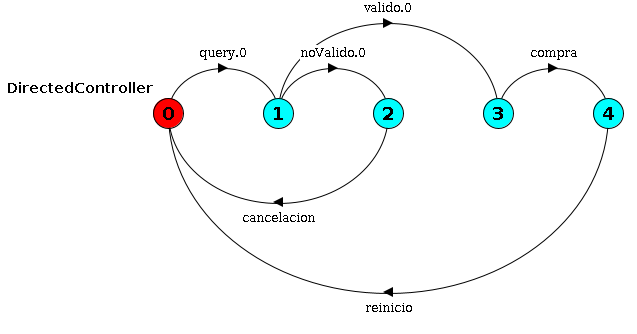
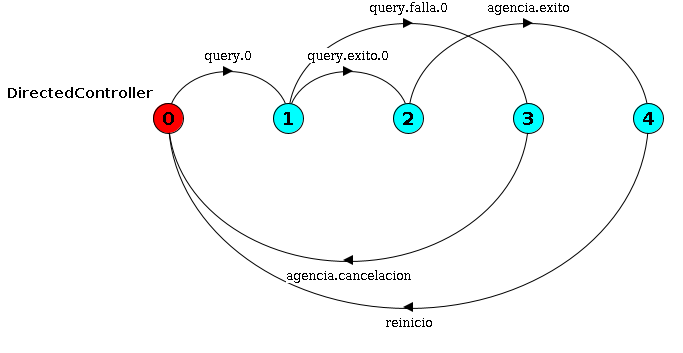
nuevo ejemplo y imagenes de agencia de viajes

diff --git a/introduccion.tex b/introduccion.tex
@@ -25,7 +25,7 @@ Tradicionalmente se toman estos autómatas componentes y se realiza la composici
 Es en este contexto que surge el enfoque de la exploración on-the-fly o ``en el mientras''. La idea es tratar de sacar conclusiones mientras se va calculando la composición para, de esta manera, evitar en lo posible construir todo el modelo. Para evidenciar la dificultad de la cual se está hablando presentaremos un caso de estudio, sus componentes y el sistema resultante de la composición.
 
 
-\section{Caso de estudio}\label{chpt:casoAviones}
+\section{Ejemplo}\label{chpt:casoAviones}
 A continuación se presenta un ejemplo para comprender el problema a resolver. Se trata de una versión simplificada del problema $Travel Agency$ utilizado en el capítulo \ref{chpt:performance} para medir la performance del algoritmo.
 
 Se desea armar una agencia de venta online de paquetes vacacionales que reservará de forma automática una variedad de servicios (alquiler de auto, hotel, pasaje de avión, etc.) asegurando que no se perderá nada de dinero a menos que se reserve el paquete completo. Es decir, no se quiere perder dinero por la reserva del hotel si no va a ser posible comprar un pasaje de avión.
@@ -39,27 +39,27 @@ Mostramos en la figura~\ref{fig:N1} un LTS (labeled transition system) para cada
 \begin{figure}[htb]
 	\begin{center}
 		\makebox[\linewidth][c]{%
-			\begin{subfigure}[t]{.5\textwidth}
+			\begin{subfigure}[t]{.6\textwidth}
 				\centering
-				\includegraphics[width=\linewidth]{figures/ejemploServicios/agencia.png}  
-				\caption{agencia}
+				\includegraphics[width=\linewidth]{figures/ejemploServicios/N1Agencia.png}  
+				\caption{la agencia}
 				\label{fig:agencia}
 			\end{subfigure}
-			\begin{subfigure}[t]{.5\textwidth}
+			\begin{subfigure}[t]{.6\textwidth}
 				\centering
-				\includegraphics[width=\linewidth]{figures/ejemploServicios/subServicio.png}  
-				\caption{un sub servicio}
+				\includegraphics[width=\linewidth]{figures/ejemploServicios/N1SubServicio.png}  
+				\caption{el sub servicio a contratar}
 				\label{fig:subserv}
 			\end{subfigure}
 		}
 		\makebox[\linewidth][c]{%
-			\begin{subfigure}[t]{.5\textwidth}
+			\begin{subfigure}[t]{.6\textwidth}
 				\centering
 				\includegraphics[width=\linewidth]{figures/ejemploServicios/N1Planta.png}  
 				\caption{Planta compuesta}
 				\label{fig:N1Planta}
 			\end{subfigure}
-			\begin{subfigure}[t]{.5\textwidth}
+			\begin{subfigure}[t]{.6\textwidth}
 				\centering
 				\includegraphics[width=\linewidth]{figures/ejemploServicios/N1Controlador.png}  
 				\caption{Controlador resultante}
@@ -75,6 +75,12 @@ Mostramos en la figura~\ref{fig:N1} un LTS (labeled transition system) para cada
 	\includegraphics[width=\linewidth]{figures/ejemploServicios/N2Planta.png}  
 	\caption{Planta compuesta con 2 sub-servicios}
 	\label{fig:N2}
+\end{figure}
+
+\begin{figure}[htb]
+	\includegraphics[width=\linewidth]{figures/ejemploServicios/N2Controlador.png}  
+	\caption{Controlador para el problema con 2 sub-servicios}
+	\label{fig:N2-control}
 \end{figure}
 
 En el ejemplo, la figura \ref{fig:agencia} representa a la agencia, que comienza en el estado inicial (0), y lo que quiere es confirmar la compra. Mientras siga consultando la disponibilidad del servicio con \textit{query.0} y cancelando la compra, su estado no cambia. 
